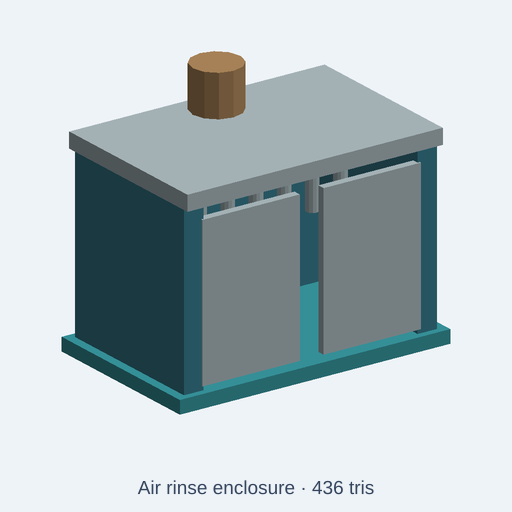
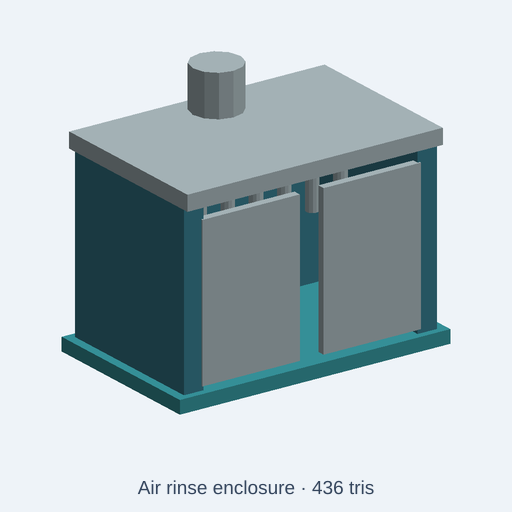
fix(catalog): render the air rinse enclosure's exhaust stack as stainless
The extraction stack on beverage-bottling-line/air-rinse-enclosure is
sheet-metal ducting. Its part name (exhaust-stack) matched the board rule
(/stack/), so it rendered as brown corrugated cardboard on the roof. No
other part of the enclosure is board, so remove the board rule and the
dead corrugatedBoard knob (and its preset entries). The stack now falls
through to the existing stainlessSteel control. Geometry, part names and
the triangle count (436 / 2,200) are unchanged; three colour knobs and
two presets remain.

The new GLB colour test fails on the old source (the colour assertion
alone also fails: exhaust stack not stainless) and passes on the fix.
tests/integration/catalog: 118/118 files, 186/186 tests pass. ESLint on
the asset and test: clean. checkCatalogQuality.py on the kit: 50/50 pass.
The index diff touches only the air-rinse-enclosure row. A before/after
MP4 was inspected locally.

Preview audit ledger (beverage-bottling-line; no open issue/PR target):
- air-rinse-enclosure: exhaust stack brown board, should be stainless ->
  fixed here. base-tray matches /tray/ and renders as polymer; noted.
- cap-torque-head: gearbox, spindle, clutch ring; no defect.
- bottle-rinser-carousel: turret, inverting rails, star wheels; no
  material defect. The bottle grippers read as pins only; noted.
- pressure-sensitive-labeler: label reels paper, frame, applicators;
  no defect.
- wraparound-labeler: label reel paper, drum, glue station; no defect.

Changed region(s): [[0.3438, 0.0938, 0.5, 0.25]]

diff --git a/tests/integration/catalog/airRinseExhaustMaterial.test.ts b/tests/integration/catalog/airRinseExhaustMaterial.test.ts
@@ -1,0 +1,63 @@
+// SPDX-License-Identifier: MIT
+// Copyright (c) 2026 Andrii Shylenko and kernelCAD contributors
+
+import { resolve } from 'node:path';
+import { NodeIO } from '@gltf-transform/core';
+import { beforeAll, describe, expect, it } from 'vitest';
+import { buildCatalogAssetWithGlb } from '../../../src/agent/catalog/buildCatalog';
+import { initOcct } from '../../../src/kernel/backends/occt/occtBackend';
+
+const repoRoot = resolve(import.meta.dirname, '../../..');
+const source = 'catalog/kits/beverage-bottling-line/air-rinse-enclosure.kcad.ts';
+
+beforeAll(async () => {
+  await initOcct();
+}, 120_000);
+
+describe('beverage-bottling-line/air-rinse-enclosure materials', () => {
+  it('renders the extraction stack as stainless ducting, not corrugated board', async () => {
+    const { asset, glb } = await buildCatalogAssetWithGlb(repoRoot, source);
+
+    expect(asset.stats.triangles).toBeLessThanOrEqual(asset.triangleBudget);
+    expect(asset.params.filter((param) => param.type === 'color').map((param) => param.name)).toEqual([
+      'stainlessSteel', 'powderCoat', 'foodPolymer',
+    ]);
+    expect(Object.keys(asset.presets)).toEqual(['sanitaryLine', 'legacyPlant']);
+
+    const document = await new NodeIO().readBinary(glb);
+    const nodes = document.getRoot().listNodes();
+    const colorsFor = (name: string) => {
+      const node = nodes.find((candidate) => candidate.getName() === name);
+      return node?.getMesh()?.listPrimitives().flatMap((primitive) => {
+        const vertexColors = primitive.getAttribute('COLOR_0');
+        if (vertexColors !== null) {
+          return Array.from({ length: vertexColors.getCount() }, (_, index) => {
+            const color = vertexColors.getElement(index, []);
+            return color.slice(0, 3).map((channel) =>
+              channel <= 0.0031308 ? 12.92 * channel : 1.055 * channel ** (1 / 2.4) - 0.055,
+            );
+          });
+        }
+        const material = primitive.getMaterial();
+        return material === null ? [] : [material.getBaseColorFactor().slice(0, 3)];
+      }) ?? [];
+    };
+    const matches = (hex: string) => {
+      const expected = [1, 3, 5].map((shift) => parseInt(hex.slice(shift, shift + 2), 16) / 255);
+      return (color: number[]) => expected.every((channel, index) =>
+        Math.abs(channel - color[index]!) < 0.015,
+      );
+    };
+
+    const stack = colorsFor('exhaust-stack');
+    expect(stack.length).toBeGreaterThan(0);
+    expect(stack.every(matches('#aebdc1')), 'exhaust stack should be stainless steel').toBe(true);
+    expect(stack.some(matches('#b18a5d')), 'exhaust stack must not be corrugated board').toBe(false);
+    const roof = colorsFor('roof');
+    expect(roof.length).toBeGreaterThan(0);
+    expect(roof.every(matches('#aebdc1')), 'roof should stay stainless steel').toBe(true);
+    const door = colorsFor('front-door-left');
+    expect(door.length).toBeGreaterThan(0);
+    expect(door.every(matches('#aebdc1')), 'front door should stay stainless steel').toBe(true);
+  }, 120_000);
+});

diff --git a/catalog/kits/beverage-bottling-line/air-rinse-enclosure.kcad.ts b/catalog/kits/beverage-bottling-line/air-rinse-enclosure.kcad.ts
@@ -5,7 +5,7 @@ meta({
   name: "air-rinse-enclosure",
   license: 'CC0-1.0',
   title: "Air rinse enclosure",
-  description: "Compact enclosure around an ionized-air bottle rinse with access doors and extraction hood. Knobs: overall scale and color controls for stainless steel, powder-coated steel, food-grade polymer, and corrugated board.",
+  description: "Compact enclosure around an ionized-air bottle rinse with access doors and extraction hood. Knobs: overall scale and color controls for stainless steel, powder-coated steel, and food-grade polymer.",
   tags: ['beverage bottling', 'packaging line', 'food manufacturing', 'low poly', 'CC0'],
   kit: 'beverage-bottling-line',
   category: 'structure',
@@ -18,20 +18,17 @@ const scale = param('scale', 1, { label: 'Overall scale', min: 0.65, max: 1.3, s
 const stainlessSteel = param('stainlessSteel', '#aebdc1', { label: 'Stainless steel' });
 const powderCoat = param('powderCoat', '#397e91', { label: 'Powder-coated steel' });
 const foodPolymer = param('foodPolymer', '#3999a1', { label: 'Food-grade polymer' });
-const corrugatedBoard = param('corrugatedBoard', '#b18a5d', { label: 'Corrugated board' });
 
 presets({
   sanitaryLine: {
     stainlessSteel: '#d2dfe1',
     powderCoat: '#4b95a4',
     foodPolymer: '#2c828c',
-    corrugatedBoard: '#c49b6b',
   },
   legacyPlant: {
     stainlessSteel: '#858f91',
     powderCoat: '#315b70',
     foodPolymer: '#286c75',
-    corrugatedBoard: '#886342',
   },
 });
 const boxPart = (x:number,y:number,z:number,w:number,d:number,h:number) => box(w,d,h,true).translate(x,y,z+h/2).scale(scale);
@@ -40,7 +37,6 @@ const cylinderPart = (x:number,y:number,z:number,h:number,r:number,n=10) => cyli
 const p = assembly("air-rinse-enclosure");
 const finishPart = (name: string, shape: ReturnType<typeof boxPart>) => {
   const component = name.toLowerCase();
-  if (/carton|paper|sheet|stack|pallet|cardboard|corrugated|case[-_ ]?(?:blank|wall|stack|pack|lift)/i.test(component)) return shape.color(corrugatedBoard);
   if (/belt|guide|film|web|label|pad|seal|grip|cap|bottle|liner|tray|hose|cleat|divider|wheel|wrap|tape|suction|sleeve/i.test(component)) return shape.color(foodPolymer);
   if (/base|leg|foot|frame|support|stand|control|housing|cabinet|motor|drive|beam|panel|hood|skid|mount|platform|guard|rail|post|lift|jacket/i.test(component)) return shape.color(powderCoat);
   return shape.color(stainlessSteel);
